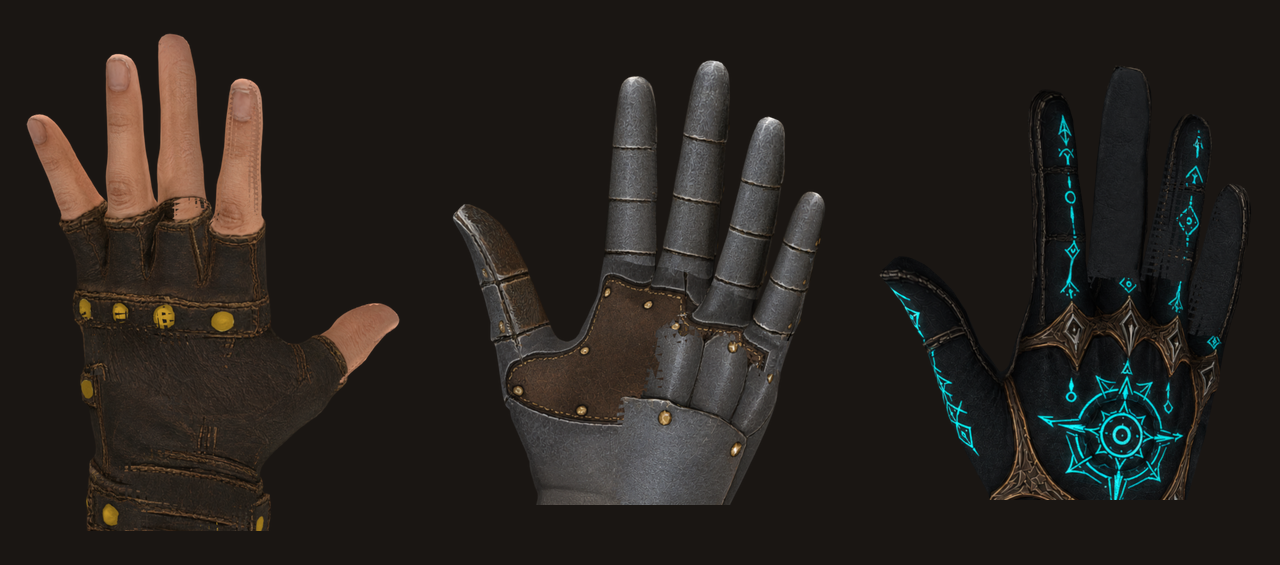
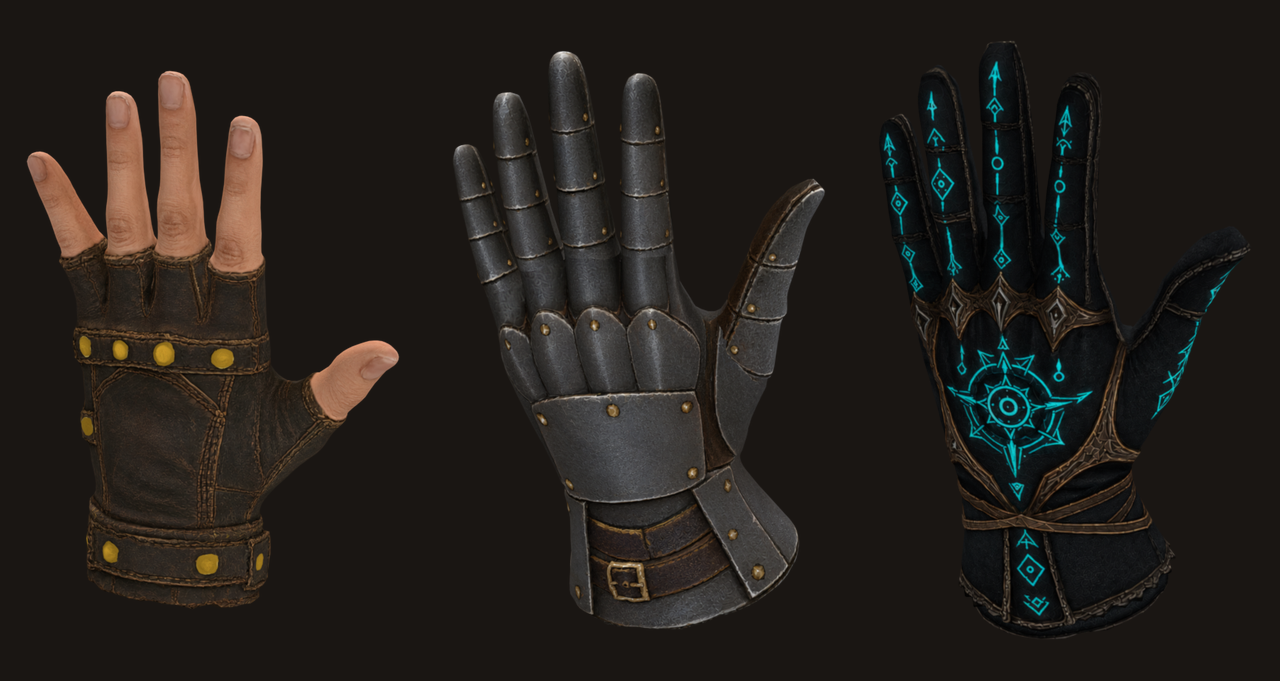
fix(readme): the asset strips were wrong in three ways, and none of them was the textures
The user's report: "Die Renderbilder von den Masken und Händen sehen kaputt
aus, nicht so wie sie im Spiel zu sehen sind ... zB die Finger bei den
Händen". Right on all counts. The textures were the ONE thing that was
already correct — the script has always bound the same loose PNGs the shipped
.mat files bind, by GUID. Everything around them was wrong.

1. blend_method = 'BLEND' BROKE THE FINGERS. Every hand and mask albedo in
   this bundle is fully opaque — alpha is 255 at all 2048x2048 texels,
   measured, on all six — so the alpha mix could only ever pass 1.0. It did
   nothing except put the material in Eevee's BLEND path, where depth writes
   are off and geometry sorts per OBJECT rather than per pixel. Four fingers
   in front of a palm is precisely the case that breaks under. OPAQUE now,
   with no alpha term at all; --alpha brings back a CLIP path if a genuinely
   cut-out asset ever needs one, and clip is not blend.

2. BACKFACE CULLING DID NOT MATCH THE MATERIAL. Every shipped hand material
   carries _Cull: 2 (Back); the script rendered double-sided, so each hand
   drew its own interior through itself. That fault also concealed a third:
   the arcane glove's cyan runes are on its BACK, and in the double-sided
   renders they were being admired THROUGH the palm — which is why the first
   corrected render came out plain black and read as a regression when it was
   the first honest picture. Both armoured hands are now photographed from the
[…]

diff --git a/unity/asset-preview/render_asset.py b/unity/asset-preview/render_asset.py
@@ -26,7 +26,7 @@
 # RUN:
 #   /home/claw/blender-4.2/blender --background --python unity/asset-preview/render_asset.py -- \
 #       <in.fbx> <albedo.png> <out.png> [--normal <normal.png>] [--res 900] [--yaw 35] [--pitch 18]
-#       [--cull] [--margin 1.06] [--scale 0.42] [--focus-z 0.10]
+#       [--cull] [--unlit] [--alpha] [--margin 1.06] [--scale 0.42] [--focus-z 0.10]
 import bpy, sys, os, math
 from mathutils import Vector, Matrix
 
@@ -55,7 +55,9 @@ FIXED_SCALE = float(opt("--scale", "0"))
 # --focus-z pins the frame centre to that span instead.
 FOCUS_Z = opt("--focus-z", "")
 NORMAL = opt("--normal", "")
-CULL = "--cull" in argv
+CULL = "--cull" in argv          # match the shipped material's _Cull
+UNLIT = "--unlit" in argv        # GloomhavenVR/HeadUnlit — the masks
+ALPHA_CLIP = "--alpha" in argv   # only for a genuinely cut-out albedo
 
 GAME_KEY = (0.35, -0.45, 0.85)
 GAME_FILL = (-0.55, 0.30, 0.35)
@@ -151,8 +153,27 @@ if NORMAL and os.path.exists(NORMAL):
 
 mat = bpy.data.materials.new("m_game")
 mat.use_nodes = True
+
+# ---- CULL AND BLEND ARE READ OFF THE SHIPPED MATERIAL, NOT GUESSED (ModBuild 247 fix).
+#
+# THE FIRST CUT OF THIS SCRIPT GOT BOTH WRONG AND THE USER SAW IT: "Die Renderbilder von den
+# Masken und Händen sehen kaputt aus ... zB die Finger bei den Händen".
+#
+#   blend_method = 'BLEND' was the finger fault. Every hand and mask albedo in this bundle is
+#   FULLY OPAQUE — alpha is 255 at every one of 2048x2048 texels, measured, on all six — so the
+#   Mix-Shader-against-a-Transparent-BSDF this used to build could only ever pass 1.0 and did
+#   nothing but put the material in Eevee's BLEND path, where depth writes are off and overlapping
+#   geometry sorts per object instead of per pixel. Four fingers in front of a palm is exactly the
+#   case that breaks under, and it read as broken fingers because it WAS broken fingers.
+#   OPAQUE now, with no alpha term at all; --alpha brings back a CLIP path if a cut-out asset ever
+#   needs one, and clip is still not blend.
+#
+#   Backface culling has to MATCH THE MATERIAL. Every shipped hand material carries `_Cull: 2`
+#   (Back) since the artist's plate gauntlet closed the last open shell; every mask material
+#   carries `_Cull: 0` (Off), because the mask shells are thin and a backface must not read as a
+#   hole. Rendering a hand double-sided draws its inside surfaces through itself.
 mat.use_backface_culling = CULL
-mat.blend_method = 'BLEND'
+mat.blend_method = 'CLIP' if ALPHA_CLIP else 'OPAQUE'
 nt = mat.node_tree
 nt.nodes.clear()
 out = nt.nodes.new("ShaderNodeOutputMaterial")
@@ -160,61 +181,72 @@ out = nt.nodes.new("ShaderNodeOutputMaterial")
 tex = nt.nodes.new("ShaderNodeTexImage")
 tex.image = albedo
 
-geo = nt.nodes.new("ShaderNodeNewGeometry")
-normal_src = geo.outputs["Normal"]
-if normal_img is not None:
-    ntex = nt.nodes.new("ShaderNodeTexImage")
-    ntex.image = normal_img
-    nmap = nt.nodes.new("ShaderNodeNormalMap")
-    nt.links.new(ntex.outputs["Color"], nmap.inputs["Color"])
-    normal_src = nmap.outputs["Normal"]
-
-shade = None
-for vec, gain in ((GAME_KEY, 0.85), (GAME_FILL, 0.35)):
-    dot = nt.nodes.new("ShaderNodeVectorMath")
-    dot.operation = 'DOT_PRODUCT'
-    dot.inputs[1].default_value = vec
-    nt.links.new(normal_src, dot.inputs[0])
-    cl = nt.nodes.new("ShaderNodeMath")
-    cl.operation = 'MAXIMUM'
-    cl.inputs[1].default_value = 0.0
-    nt.links.new(dot.outputs["Value"], cl.inputs[0])
-    sc = nt.nodes.new("ShaderNodeMath")
-    sc.operation = 'MULTIPLY'
-    sc.inputs[1].default_value = gain
-    nt.links.new(cl.outputs[0], sc.inputs[0])
-    if shade is None:
-        shade = sc
-    else:
-        ad = nt.nodes.new("ShaderNodeMath")
-        ad.operation = 'ADD'
-        nt.links.new(shade.outputs[0], ad.inputs[0])
-        nt.links.new(sc.outputs[0], ad.inputs[1])
-        shade = ad
-
-amb = nt.nodes.new("ShaderNodeMath")
-amb.operation = 'ADD'
-amb.inputs[1].default_value = 0.5              # BoardLit _Ambient
-nt.links.new(shade.outputs[0], amb.inputs[0])
-
-mul = nt.nodes.new("ShaderNodeMixRGB")
-mul.blend_type = 'MULTIPLY'
-mul.inputs["Fac"].default_value = 1.0
-nt.links.new(tex.outputs["Color"], mul.inputs["Color1"])
-nt.links.new(amb.outputs[0], mul.inputs["Color2"])
-
 em = nt.nodes.new("ShaderNodeEmission")
 em.inputs["Strength"].default_value = 1.0
-nt.links.new(mul.outputs["Color"], em.inputs["Color"])
 
-# The albedo's own alpha decides what exists — a mask cut-out has holes, and filling them would be
-# inventing geometry the player never sees.
-mix = nt.nodes.new("ShaderNodeMixShader")
-transp = nt.nodes.new("ShaderNodeBsdfTransparent")
-nt.links.new(tex.outputs["Alpha"], mix.inputs["Fac"])
-nt.links.new(transp.outputs[0], mix.inputs[1])
-nt.links.new(em.outputs[0], mix.inputs[2])
-nt.links.new(mix.outputs[0], out.inputs[0])
+if UNLIT:
+    # ---- THE MASKS ARE NOT LIT, AND THAT WAS THE SECOND FAULT. They do not run BoardLit at all;
+    # they run GloomhavenVR/HeadUnlit, whose whole fragment stage is `albedo * tint`. Its header
+    # says why in as many words: the head floats in the light-less VR void and in the mirror, where
+    # "any scene-lit shader (Standard, BoardLit's baked rig included) would either render black or
+    # add shading the albedo doesn't expect", because that texture already carries its own baked
+    # light. Putting BoardLit's Lambert on top of a pre-lit texture is double-shading, and it is why
+    # the first mask strip came out dark and muddy against what the player sees.
+    nt.links.new(tex.outputs["Color"], em.inputs["Color"])
+else:
+    geo = nt.nodes.new("ShaderNodeNewGeometry")
+    normal_src = geo.outputs["Normal"]
+    if normal_img is not None:
+        ntex = nt.nodes.new("ShaderNodeTexImage")
+        ntex.image = normal_img
+        nmap = nt.nodes.new("ShaderNodeNormalMap")
+        nt.links.new(ntex.outputs["Color"], nmap.inputs["Color"])
+        normal_src = nmap.outputs["Normal"]
+
+    shade = None
+    for vec, gain in ((GAME_KEY, 0.85), (GAME_FILL, 0.35)):
+        dot = nt.nodes.new("ShaderNodeVectorMath")
+        dot.operation = 'DOT_PRODUCT'
+        dot.inputs[1].default_value = vec
+        nt.links.new(normal_src, dot.inputs[0])
+        cl = nt.nodes.new("ShaderNodeMath")
+        cl.operation = 'MAXIMUM'
+        cl.inputs[1].default_value = 0.0
+        nt.links.new(dot.outputs["Value"], cl.inputs[0])
+        sc = nt.nodes.new("ShaderNodeMath")
+        sc.operation = 'MULTIPLY'
+        sc.inputs[1].default_value = gain
+        nt.links.new(cl.outputs[0], sc.inputs[0])
+        if shade is None:
+            shade = sc
+        else:
+            ad = nt.nodes.new("ShaderNodeMath")
+            ad.operation = 'ADD'
+            nt.links.new(shade.outputs[0], ad.inputs[0])
+            nt.links.new(sc.outputs[0], ad.inputs[1])
+            shade = ad
+
+    amb = nt.nodes.new("ShaderNodeMath")
+    amb.operation = 'ADD'
+    amb.inputs[1].default_value = 0.5              # BoardLit _Ambient
+    nt.links.new(shade.outputs[0], amb.inputs[0])
+
+    mul = nt.nodes.new("ShaderNodeMixRGB")
+    mul.blend_type = 'MULTIPLY'
+    mul.inputs["Fac"].default_value = 1.0
+    nt.links.new(tex.outputs["Color"], mul.inputs["Color1"])
+    nt.links.new(amb.outputs[0], mul.inputs["Color2"])
+    nt.links.new(mul.outputs["Color"], em.inputs["Color"])
+
+if ALPHA_CLIP:
+    mix = nt.nodes.new("ShaderNodeMixShader")
+    transp = nt.nodes.new("ShaderNodeBsdfTransparent")
+    nt.links.new(tex.outputs["Alpha"], mix.inputs["Fac"])
+    nt.links.new(transp.outputs[0], mix.inputs[1])
+    nt.links.new(em.outputs[0], mix.inputs[2])
+    nt.links.new(mix.outputs[0], out.inputs[0])
+else:
+    nt.links.new(em.outputs[0], out.inputs[0])
 
 for ob in meshes:
     ob.data.materials.clear()

diff --git a/docs/img/README.md b/docs/img/README.md
@@ -64,9 +64,43 @@ What ships instead is a **poster image that links to the mp4**:
 ```
 
 A relative `<img>` is rewritten by GitHub on **every** branch, public or private, and has never
-needed a sanitiser exemption. The link opens the clip in GitHub's own file view. There is no inline
-playback — that is the price, and it is worth paying for something that is visible at all. Posters
-carry a play glyph drawn on top so the still reads as a video.
+needed a sanitiser exemption. Posters carry a play glyph drawn on top so the still reads as a video.
+
+**But the link only reaches GitHub's blob page**, where the reader has to press *View raw* and the
+file downloads — the user's report, and a fair complaint.
+
+### The only way a video actually PLAYS in a GitHub README
+
+It has to be served from GitHub's **attachment CDN**, not from the repository. A repo-relative path
+and a `raw.githubusercontent.com` URL both refuse to play; nothing you can commit will play by
+itself. The URL has to look like:
+
+```
+https://github.com/user-attachments/assets/<uuid>
+```
+
+and you only get one by **uploading the file through a comment box**: open a new issue, a PR, or a
+discussion in this repository, drag `docs/img/card-fan.mp4` into the text area, wait for the upload
+to finish, and copy the `https://github.com/user-attachments/assets/…` URL it writes into the box.
+**Do not submit the issue** — the upload has already happened and the URL is permanent. Then either
+put that URL bare on its own line, or wrap it:
+
+```html
+<video src="https://github.com/user-attachments/assets/xxxxxxxx" controls muted loop></video>
+```
+
+Notes that matter here:
+- **Limits are fine for us**: 10 MB through the web editor, 25 MB through a comment box. Our clips
+  are 1.2 MB and 1.3 MB.
+- **MP4/H.264, MOV and WebM** are the accepted formats. Ours is already MP4/H.264.
+- **While this repository is PRIVATE**, an attachment URL still needs the reader to be signed in
+  and permitted — so it will play for the maintainer and be blank for a stranger, and it starts
+  working for everyone the day the repository goes public.
+- The file then lives OUTSIDE the repository. Keep the committed `docs/img/*.mp4` as the durable
+  copy: it is the thing a clone carries, and the attachment can be regenerated from it.
+
+Until those URLs exist the poster-and-link above is what ships, because it is the only form that is
+visible at all on a private repo.
 
 ## Encoding a new clip
 
@@ -93,7 +127,37 @@ assets** by `unity/asset-preview/render_asset.py`, which reproduces `GloomhavenV
 node — the same emission-of-albedo-times-shade the player sees, with no renderer lighting model
 getting a say. A strip is not concept art; it is the asset.
 
-Two things in that script are load-bearing, and both were learned the hard way:
+**THE FIRST STRIPS WERE WRONG IN THREE WAYS AT ONCE** — the user's report was "die Renderbilder von
+den Masken und Händen sehen kaputt aus, nicht so wie sie im Spiel zu sehen sind ... zB die Finger
+bei den Händen". He was right about all of it, and the textures were the one thing that was not the
+problem: the script has always bound the same loose PNGs the shipped `.mat` files bind, by GUID.
+What was wrong was everything around them.
+
+1. **`blend_method = 'BLEND'` broke the fingers.** Every hand and mask albedo in this bundle is
+   FULLY OPAQUE — alpha is 255 at all 2048x2048 texels, measured, on all six — so the alpha-mix the
+   script built could only ever pass 1.0. It did nothing except put the material in Eevee's BLEND
+   path, where depth writes are off and geometry sorts per OBJECT instead of per pixel. Four fingers
+   in front of a palm is exactly the case that breaks under, so they drew through each other. Now
+   `OPAQUE`, with no alpha term at all.
+2. **Backface culling did not match the material.** Every shipped hand material carries `_Cull: 2`
+   (Back); the script rendered double-sided, so each hand drew its own inside surfaces through
+   itself. This one also hid the third fault from me: the arcane glove's cyan runes are on its BACK,
+   and in the double-sided renders I was admiring them THROUGH the palm — which is why the first
+   corrected render came out plain black and looked like a regression when it was the first honest
+   picture. The masks are `_Cull: 0` and stay double-sided, deliberately.
+3. **The masks are not lit at all.** They do not run BoardLit; they run `GloomhavenVR/HeadUnlit`,
+   whose entire fragment stage is `albedo * tint`. Its own header says why: the head floats in the
+   light-less VR void and in the mirror, where "any scene-lit shader (Standard, BoardLit's baked rig
+   included) would either render black or add shading the albedo doesn't expect", because that
+   texture already carries its own baked light. Putting BoardLit's Lambert on a pre-lit texture is
+   double-shading — which is exactly why the first mask strip was dark and muddy and the corrected
+   one shows a gold visor slit, lit runes and teal eyes. Pass `--unlit` for anything on HeadUnlit.
+
+**Rule that follows from all three: read the shipped `.mat`, do not assume.** `_Cull`, the shader
+GUID and the `_BumpMap` slot are all in there — the plate gauntlet's `_BumpMap` is `fileID: 0`,
+i.e. no normal map, and passing one would have been a fourth wrong answer.
+
+Two further things in that script are load-bearing, and both were learned the hard way:
 
 - **`view_layer.update()` before reading `cam.matrix_world`.** Without it the matrix is still
   identity, the "camera-space" fit silently becomes a world X/Y fit, and the framing is right only
